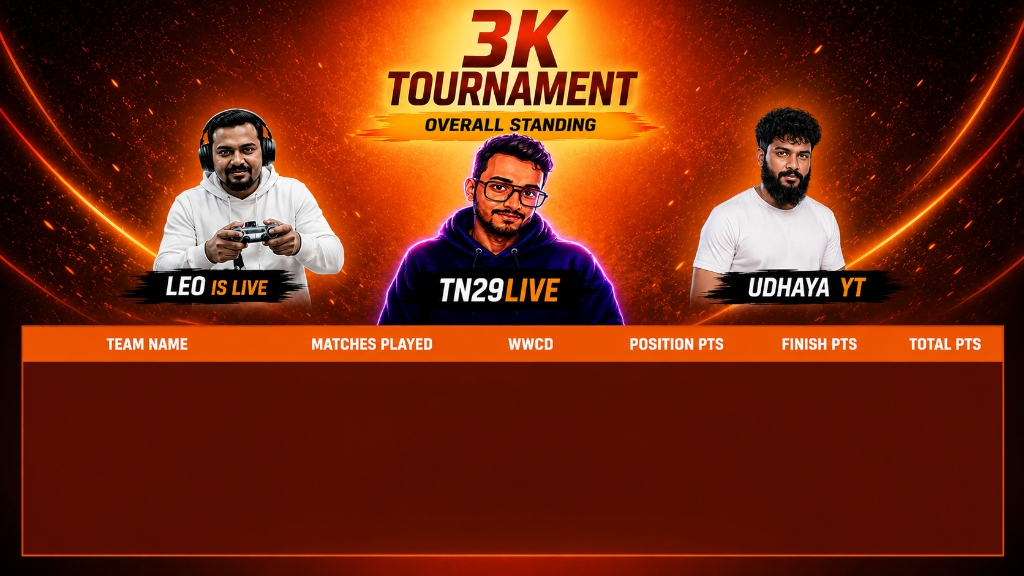
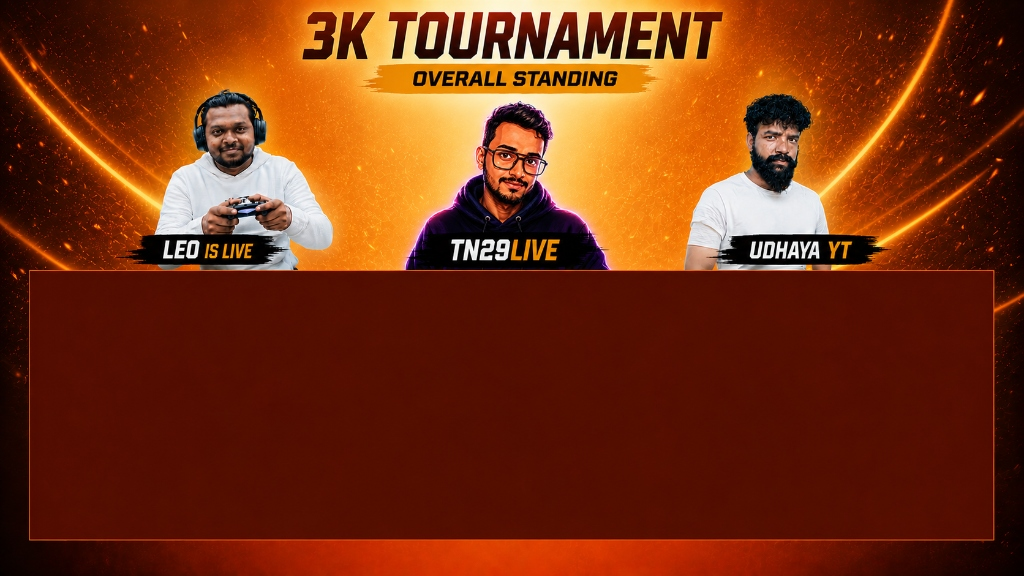
feat: Restore HTML headers, adjust top coordinates down, and load new background image

diff --git a/ASSETS/templates/tournament/POINTS_TABLE.html b/ASSETS/templates/tournament/POINTS_TABLE.html
@@ -30,7 +30,7 @@
     /* Positioned over the lower brownish area of the OBS layout */
     #tableWrapper {
       position: absolute;
-      top: 565px;
+      top: 560px;
       left: 25px;
       width: 1870px;
       height: 265px; /* 5 rows * 53px = 265px */
@@ -38,22 +38,29 @@
       flex-direction: column;
     }
 
-    /* ── Dual column header (hidden because it is baked into background image) ── */
+    /* ── Dual column header (absolutely positioned above the box) ── */
     #tableHeader {
-      display: none;
+      position: absolute;
+      top: 520px;
+      left: 25px;
+      width: 1870px;
+      display: grid;
+      grid-template-columns: 1fr 1fr;
+      gap: 0 10px;
+      z-index: 10;
     }
 
     .hdr-half {
       display: grid;
       grid-template-columns: 80px 1fr 120px 120px;
       padding: 0 24px;
-      height: 24px;
+      height: 30px;
       align-items: center;
     }
 
     .hdr-cell {
       font-family: 'Orbitron', sans-serif;
-      font-size: 13px;
+      font-size: 15px;
       font-weight: 900;
       color: #ff8c00;
       text-transform: uppercase;
